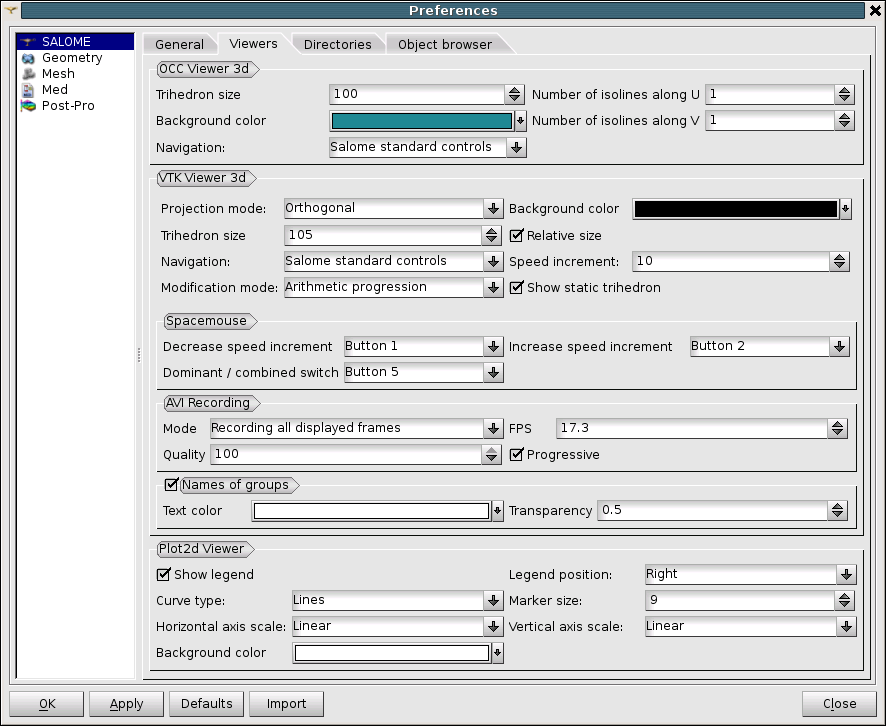
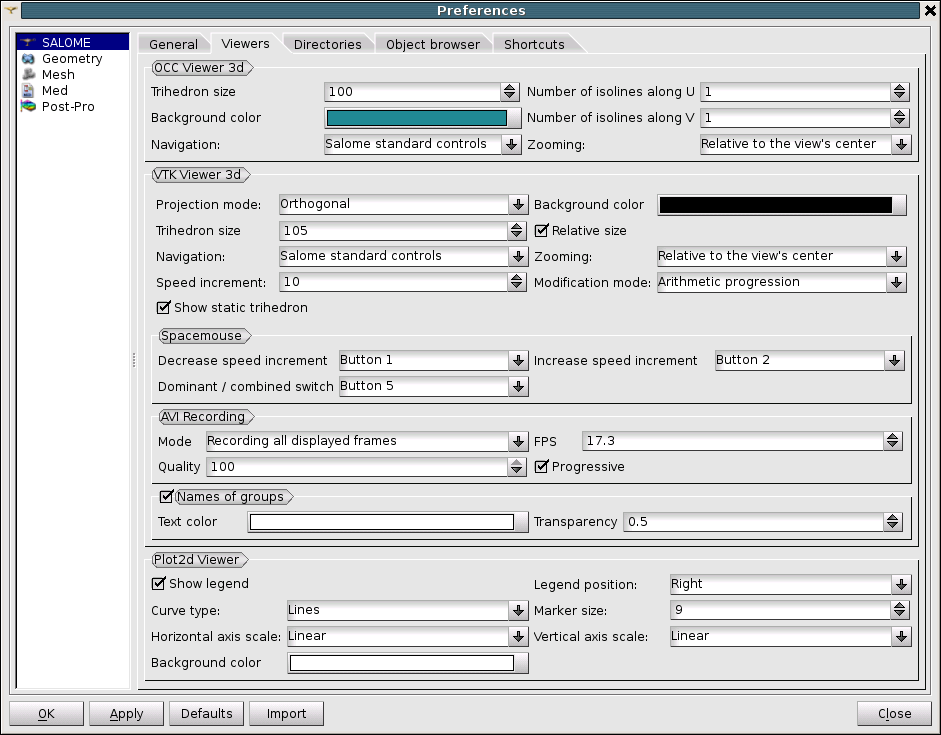
Issue 0020938: EDF 1450 GEOM: center of zoom

Changed region(s): [[0.0, 0.0, 1.0, 1.0]]

diff --git a/src/LightApp/resources/LightApp_msg_en.ts b/src/LightApp/resources/LightApp_msg_en.ts
@@ -135,6 +135,18 @@ The changes will be applied on the next application session.</translation>
         <translation>Keyboard free style</translation>
     </message>
     <message>
+        <source>PREF_ZOOMING</source>
+        <translation>Zooming:</translation>
+    </message>
+    <message>
+        <source>PREF_ZOOMING_AT_CENTER</source>
+        <translation>Relative to the view's center</translation>
+    </message>
+    <message>
+        <source>PREF_ZOOMING_AT_CURSOR</source>
+        <translation>Relative to the cursor</translation>
+    </message>
+    <message>
         <source>PREF_INCREMENTAL_SPEED</source>
         <translation>Speed increment:</translation>
     </message>

diff --git a/src/OCCViewer/resources/OCCViewer_msg_en.ts b/src/OCCViewer/resources/OCCViewer_msg_en.ts
@@ -232,6 +232,14 @@
         <translation>Interaction style switch</translation>
     </message>
     <message>
+        <source>DSC_ZOOMING_STYLE_SWITCH</source>
+        <translation>Zooming style switch</translation>
+    </message>
+    <message>
+        <source>MNU_ZOOMING_STYLE_SWITCH</source>
+        <translation>Zooming style switch</translation>
+    </message>
+    <message>
         <source>OCC_IMAGE_FILES</source>
         <translation>Images Files (*.bmp *.png *.jpg *.jpeg)</translation>
     </message>

diff --git a/src/SVTK/resources/SVTK_msg_en.ts b/src/SVTK/resources/SVTK_msg_en.ts
@@ -187,6 +187,14 @@
         <source>MNU_SVTK_STYLE_SWITCH</source>
         <translation>Interaction Style Switch</translation>
     </message>
+    <message>
+        <source>DSC_SVTK_ZOOMING_STYLE_SWITCH</source>
+        <translation>Zooming style switch</translation>
+    </message>
+    <message>
+        <source>MNU_SVTK_ZOOMING_STYLE_SWITCH</source>
+        <translation>Zomming style switch</translation>
+    </message>
 </context>
 <context>
     <name>SVTK_FontWidget</name>

diff --git a/src/SVTK/resources/SVTK_images.ts b/src/SVTK/resources/SVTK_images.ts
@@ -57,6 +57,10 @@
         <translation>vtk_view_style_switch.png</translation>
     </message>
     <message>
+        <source>ICON_SVTK_ZOOMING_STYLE_SWITCH</source>
+        <translation>vtk_view_zooming_style_switch.png</translation>
+    </message>
+    <message>
         <source>ICON_SVTK_RECORDING_START</source>
         <translation>vtk_view_recording_start.png</translation>
     </message>

diff --git a/src/OCCViewer/resources/OCCViewer_images.ts b/src/OCCViewer/resources/OCCViewer_images.ts
@@ -124,5 +124,9 @@
         <source>ICON_OCCVIEWER_STYLE_SWITCH</source>
         <translation>occ_view_style_switch.png</translation>
     </message>
+    <message>
+        <source>ICON_OCCVIEWER_ZOOMING_STYLE_SWITCH</source>
+        <translation>occ_view_zooming_style_switch.png</translation>
+    </message>
 </context>
 </TS>

diff --git a/src/SVTK/SVTK_ViewWindow.h b/src/SVTK/SVTK_ViewWindow.h
@@ -59,6 +59,7 @@ class SVTK_NonIsometricDlg;
 class SVTK_UpdateRateDlg;
 class SVTK_CubeAxesDlg;
 class SVTK_SetRotationPointDlg;
+class SVTK_InteractorStyle;
 class SVTK_KeyFreeInteractorStyle;
 class SVTK_ViewParameterDlg;
 class SVTK_Recorder;
@@ -220,6 +221,9 @@ class SVTK_EXPORT SVTK_ViewWindow : public SUIT_ViewWindow
   //! Redirect the request to #SVTK_MainWindow::SetInteractionStyle
   virtual void SetInteractionStyle( const int );
 
+  //! Redirect the request to #SVTK_MainWindow::SetZoomingStyle
+  virtual void SetZoomingStyle( const int );
+
   //! Redirect the request to #SVTK_MainWindow::SetSpacemouseButtons
   virtual void SetSpacemouseButtons( const int, const int, const int );
 
@@ -294,6 +298,7 @@ public slots:
   void onViewParameters(bool theIsActivate);
 
   void onSwitchInteractionStyle(bool theOn);
+  void onSwitchZoomingStyle(bool theOn);
 
   void onStartRecording();
   void onPlayRecording();
@@ -373,6 +378,7 @@ protected:
          FrontId, BackId, TopId, BottomId, LeftId, RightId, ResetId, 
          ViewTrihedronId, NonIsometric, GraduatedAxes, UpdateRate,
          ParallelModeId, ProjectionModeId, ViewParametersId, SwitchInteractionStyleId,
+         SwitchZoomingStyleId,
          StartRecordingId, PlayRecordingId, PauseRecordingId, StopRecordingId };
 
 
@@ -381,6 +387,7 @@ protected:
   SVTK_ViewModelBase* myModel;
 
   SVTK_RenderWindowInteractor* myInteractor;
+  vtkSmartPointer<SVTK_InteractorStyle> myDefaultInteractorStyle;
   vtkSmartPointer<SVTK_KeyFreeInteractorStyle> myKeyFreeInteractorStyle;
 
   QString myVisualParams; // used for delayed setting of view parameters 

diff --git a/src/OCCViewer/OCCViewer_ViewWindow.h b/src/OCCViewer/OCCViewer_ViewWindow.h
@@ -51,7 +51,7 @@ public:
   enum { DumpId, FitAllId, FitRectId, ZoomId, PanId, GlobalPanId,
          ChangeRotationPointId, RotationId,
          FrontId, BackId, TopId, BottomId, LeftId, RightId, ResetId, CloneId, ClippingId, MemId, RestoreId,
-         TrihedronShowId, AxialScaleId, GraduatedAxesId, AmbientId, SwitchInteractionStyleId };
+         TrihedronShowId, AxialScaleId, GraduatedAxesId, AmbientId, SwitchInteractionStyleId, SwitchZoomingStyleId };
 
   enum OperationType{ NOTHING, PANVIEW, ZOOMVIEW, ROTATE, 
                       PANGLOBAL, WINDOWFIT, FITALLVIEW, RESETVIEW,
@@ -90,6 +90,9 @@ public:
   int                     interactionStyle() const;
   void                    setInteractionStyle( const int );
  
+  int                     zoomingStyle() const;
+  void                    setZoomingStyle( const int );
+ 
   void setTransformEnabled( const OperationType, const bool );
   bool transformEnabled( const OperationType ) const;
 
@@ -119,6 +122,7 @@ public slots:
   void onTrihedronShow();
   void setRestoreFlag();
   void onSwitchInteractionStyle( bool on );
+  void onSwitchZoomingStyle( bool on );
 
   void activateSetRotationGravity();
   void activateSetRotationSelected( double theX, double theY, double theZ );

diff --git a/src/OCCViewer/OCCViewer_ViewPort3d.h b/src/OCCViewer/OCCViewer_ViewPort3d.h
@@ -69,6 +69,7 @@ public:
   virtual void          pan( int , int );
   virtual void          setCenter( int , int );
   virtual void          fitRect( const QRect& );
+  virtual void          startZoomAtPoint( int, int );
   virtual void          zoom( int, int, int, int );
   virtual void          fitAll( bool keepScale = false, bool withZ = true, bool upd = true );
 
@@ -76,6 +77,9 @@ public:
   virtual void          rotate( int, int, int, const gp_Pnt& );
   virtual void          endRotation();
   bool                  isBusy() {return myBusy;} // check that View Port is fully initialized
+
+  void                  setAdvancedZoomingEnabled( const bool theState ) { myIsAdvancedZoomingEnabled = theState; }
+  bool                  isAdvancedZoomingEnabled() const { return myIsAdvancedZoomingEnabled; }
 
 protected:
     // EVENTS
@@ -100,6 +104,7 @@ private:
   bool                  myAnimate;
   bool                  myBusy;
   double                myScale;
+  bool                  myIsAdvancedZoomingEnabled;
 };
 
 #ifdef WIN32

diff --git a/src/OCCViewer/OCCViewer_ViewModel.h b/src/OCCViewer/OCCViewer_ViewModel.h
@@ -170,6 +170,9 @@ public:
   int                             interactionStyle() const;
   void                            setInteractionStyle( const int );
 
+  int                             zoomingStyle() const;
+  void                            setZoomingStyle( const int );
+
   void                            enableSelection(bool isEnabled);
   bool                            isSelectionEnabled() const { return mySelectionEnabled; }
 
@@ -217,6 +220,7 @@ private:
   viewAspectList                  myViewAspects;
 
   int                             myInteractionStyle;
+  int                             myZoomingStyle;
 
   bool                            mySelectionEnabled;
   bool                            myMultiSelectionEnabled;

diff --git a/src/SVTK/SVTK_InteractorStyle.h b/src/SVTK/SVTK_InteractorStyle.h
@@ -228,6 +228,9 @@ class SVTK_EXPORT SVTK_InteractorStyle: public vtkInteractorStyle
 
   int   CurrentState() const { return State; }
 
+  void SetAdvancedZoomingEnabled( const bool theState ) { myIsAdvancedZoomingEnabled = theState; }
+  bool IsAdvancedZoomingEnabled() const { return myIsAdvancedZoomingEnabled; }
+
   protected:
   SVTK_InteractorStyle();
   ~SVTK_InteractorStyle();
@@ -350,6 +353,8 @@ class SVTK_EXPORT SVTK_InteractorStyle: public vtkInteractorStyle
   bool                            myBBFirstCheck;
 
   QRubberBand*                    myRectBand; //!< selection rectangle rubber band
+
+  bool                            myIsAdvancedZoomingEnabled;
 };
 
 #ifdef WIN32

diff --git a/src/SVTK/SVTK_ViewModel.h b/src/SVTK/SVTK_ViewModel.h
@@ -96,6 +96,12 @@ public:
   //! Sets interaction style
   void setInteractionStyle( const int );
 
+  //! Gets zooming style
+  int zoomingStyle() const;
+
+  //! Sets zooming style
+  void setZoomingStyle( const int );
+
   //! Get incremental speed (see #SVTK_InteractorStyle::ControllerIncrement)
   int incrementalSpeed() const;
 
@@ -175,6 +181,7 @@ private:
   int    myIncrementMode;
   int    myProjMode;
   int    myStyle;
+  int    myZoomingStyle;
   int    mySpaceBtn[3];
 };
 
